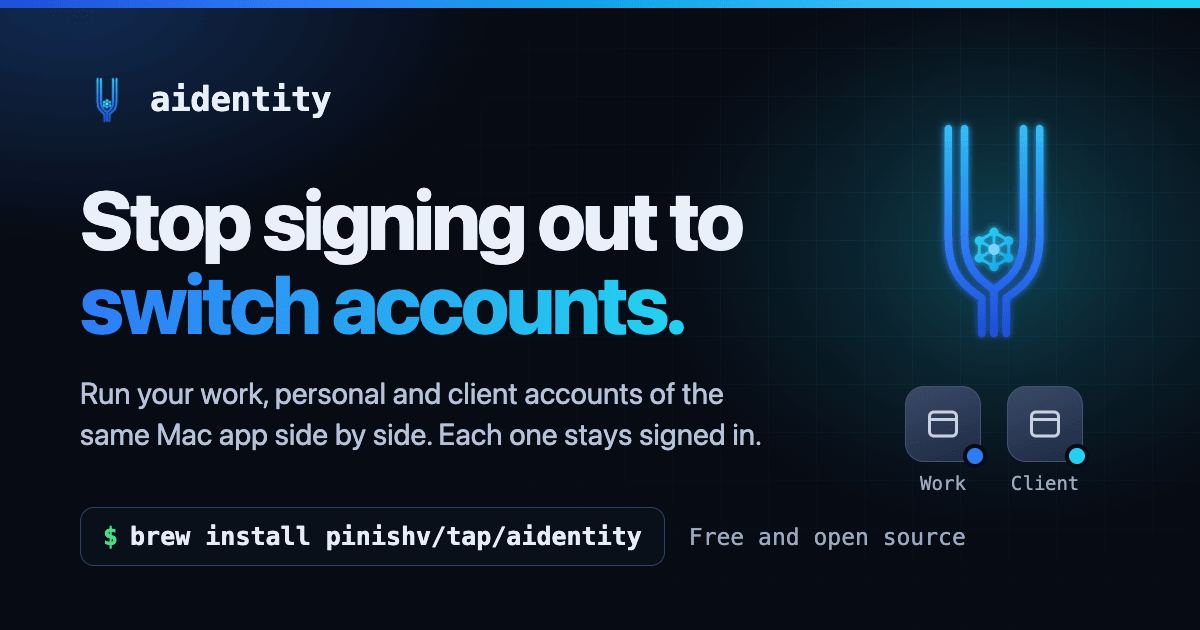
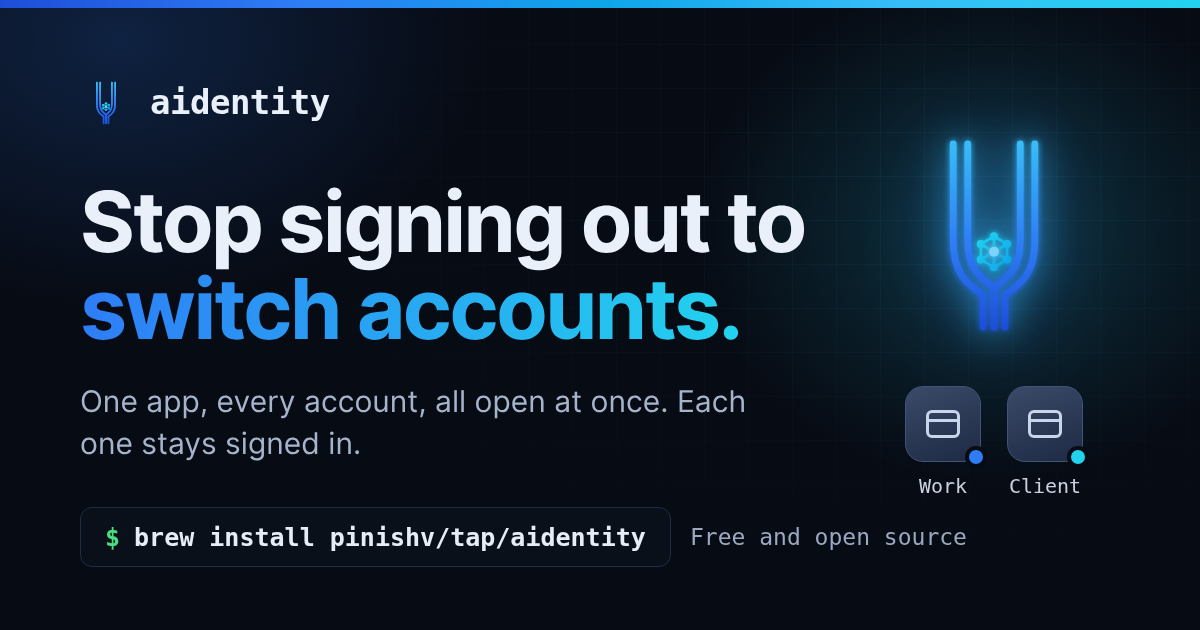
film: the social card is built with the film, with the new lead
The card shown when a link to the site is shared still had the old lead.
It now comes from assets/film/og.html, drawn by the film image's own
Chromium with the same fonts and logo, so build.sh makes it with the film
and copies it to site/assets/og.png. The film README now says that only
the sound comes out the same, sample for sample: Chromium's drawing is
not bit-exact, so the video bytes change a little from run to run.

diff --git a/assets/film/og.html b/assets/film/og.html
@@ -1,0 +1,56 @@
+<!doctype html>
+<html lang="en">
+<head>
+<meta charset="utf-8">
+<title>aidentity social card</title>
+<!-- The card that shows when a link to the site is shared: 1200x630.
+     render.sh draws it with the image's Chromium, next to the film. -->
+<style>
+  @font-face { font-family: "AidSans"; src: url("fonts/Inter-Regular.otf"); font-weight: 400; }
+  @font-face { font-family: "AidSans"; src: url("fonts/Inter-Medium.otf"); font-weight: 500; }
+  @font-face { font-family: "AidSans"; src: url("fonts/Inter-Bold.otf"); font-weight: 700; }
+  * { box-sizing: border-box; margin: 0; padding: 0; }
+  html, body { width: 1200px; height: 630px; overflow: hidden; background: #070B14; }
+  body { position: relative; font-family: "AidSans", sans-serif; color: #EAF0FA; }
+  .strip { position: absolute; left: 0; right: 0; top: 0; height: 8px; background: linear-gradient(90deg, #1D4ED8, #2E7DF6, #0EA5E9, #38BDF8, #22D3EE); }
+  .glow { position: absolute; inset: 0; background:
+      radial-gradient(ellipse 420px 360px at 990px 230px, rgba(34,211,238,.20), transparent 70%),
+      radial-gradient(ellipse 520px 380px at 120px 40px, rgba(46,125,246,.20), transparent 70%); }
+  .grid { position: absolute; inset: 0; background-image:
+      linear-gradient(rgba(56,189,248,.06) 1px, transparent 1px), linear-gradient(90deg, rgba(56,189,248,.06) 1px, transparent 1px);
+      background-size: 44px 44px; -webkit-mask-image: radial-gradient(ellipse 70% 80% at 75% 30%, #000, transparent 75%); }
+  .brand { position: absolute; left: 80px; top: 76px; display: flex; align-items: center; gap: 18px; font: 700 34px "DejaVu Sans Mono", monospace; letter-spacing: -.5px; }
+  .brand img { width: 52px; height: 52px; }
+  h1 { position: absolute; left: 80px; top: 178px; width: 760px; font-size: 84px; font-weight: 700; line-height: 1.04; letter-spacing: -2.6px; }
+  .grad { background: linear-gradient(90deg, #2E7DF6, #22D3EE); -webkit-background-clip: text; background-clip: text; color: transparent; }
+  .lead { position: absolute; left: 80px; top: 380px; width: 700px; font-size: 30px; font-weight: 400; line-height: 1.4; color: #A5B4CB; }
+  .cmd { position: absolute; left: 80px; top: 507px; display: flex; align-items: center; gap: 14px; height: 60px; padding: 0 24px;
+    border: 1px solid #1F2C45; border-radius: 12px; background: #0A1019; font: 700 25px "DejaVu Sans Mono", monospace; color: #E6EDF7; }
+  .cmd b { color: #4ADE80; }
+  .free { position: absolute; left: 690px; top: 524px; font: 400 23px "DejaVu Sans Mono", monospace; color: #9AA9C0; }
+  .mark { position: absolute; left: 878px; top: 96px; width: 232px; height: 270px; object-fit: contain;
+    filter: drop-shadow(0 0 18px rgba(56,189,248,.65)) drop-shadow(0 0 40px rgba(46,125,246,.45)); }
+  .tiles { position: absolute; left: 905px; top: 386px; display: flex; gap: 26px; }
+  .t { display: grid; justify-items: center; gap: 12px; font: 500 20px "DejaVu Sans Mono", monospace; color: #C9D1DE; }
+  .tile { position: relative; width: 76px; height: 76px; border-radius: 18px; display: grid; place-items: center;
+    background: linear-gradient(160deg, #3A4A68, #1E2A44); border: 1px solid #41537A; }
+  .tile i { width: 34px; height: 28px; border: 3px solid #C9D6EA; border-radius: 6px; position: relative; }
+  .tile i::after { content: ""; position: absolute; left: 0; right: 0; top: 6px; border-top: 3px solid #C9D6EA; }
+  .badge { position: absolute; right: -7px; bottom: -7px; width: 22px; height: 22px; border-radius: 50%; border: 4px solid #070B14; background: #2E7DF6; }
+  .badge.b2 { background: #22D3EE; }
+</style>
+</head>
+<body>
+<div class="glow"></div><div class="grid"></div><div class="strip"></div>
+<div class="brand"><img src="logo.svg" alt="">aidentity</div>
+<h1>Stop signing out to <span class="grad">switch accounts.</span></h1>
+<p class="lead">One app, every account, all open at once. Each one stays signed in.</p>
+<div class="cmd"><b>$</b>brew install pinishv/tap/aidentity</div>
+<div class="free">Free and open source</div>
+<img class="mark" src="logo.svg" alt="">
+<div class="tiles">
+  <div class="t"><div class="tile"><i></i><span class="badge"></span></div>Work</div>
+  <div class="t"><div class="tile"><i></i><span class="badge b2"></span></div>Client</div>
+</div>
+</body>
+</html>

diff --git a/assets/film/README.md b/assets/film/README.md
@@ -1,9 +1,10 @@
 # The product film
 
-The source of the 19.5-second film on the site, with its sound and its two
-posters. It is a build tool for the repository, not part of the installed
-tool: `aidentity`, `install.sh` and the Homebrew formula never fetch or run
-anything from this folder.
+The source of the 19.5-second film on the site, with its sound, its two
+posters and the card shown when a link to the site is shared. It is a build
+tool for the repository, not part of the installed tool: `aidentity`,
+`install.sh` and the Homebrew formula never fetch or run anything from this
+folder.
 
 ## Rebuild it
 
@@ -21,9 +22,11 @@ network off. The script copies the results into place:
 |---|---|
 | `site/assets/film.mp4`, `film.webm` | the site player |
 | `site/assets/film-poster.jpg` | the site, before play |
+| `site/assets/og.png` | the card shown when a link to the site is shared |
 | `assets/film-poster.jpg` | the README, with a play button drawn on it |
 
-Watch the film with sound and look at both posters before you commit them.
+Watch the film with sound and look at both posters and the card before you
+commit them.
 
 - `--rebuild` builds the image again first.
 - `FILM_KEEP=some/folder bash assets/film/build.sh` also keeps every output
@@ -41,6 +44,7 @@ Watch the film with sound and look at both posters before you commit them.
 | File | What it does |
 |---|---|
 | `index.html` | The film: a 1280x720 page, animated with a GSAP timeline |
+| `og.html` | The card for shared links: a 1200x630 page |
 | `narration.py` | The six spoken lines, made with Kokoro, offline |
 | `music.py` | The music, written in code from fixed seeds, and the mix with the narration |
 | `master.py` | Gain and a true-peak limiter |
@@ -66,6 +70,7 @@ The steps in `render.sh`:
    settings, versions or dates.
 7. The site poster: the frame at 8.9 s.
 8. The README poster: the frame at 8.9 s, with a play button on it.
+9. The card for shared links: `og.html`, drawn by the same Chromium.
 
 ## What is pinned, and why
 
@@ -86,8 +91,9 @@ change under it.
 Not pinned: the Debian packages (ffmpeg 5.1.9, Chromium 156, Inter 4.0~beta7,
 librsvg 2.54.7 when this was written). They come from Debian 12 when the image
 is built, so a later build can take newer security updates, and the video bytes
-can then differ. To get the same bytes again, keep the built image and run it
-on a machine with the same number of CPUs: the H.264 output depends on it.
+can then differ. Even with the same image, the video bytes change a little from
+run to run: Chromium's drawing is not bit-exact, though the difference cannot
+be seen. The sound comes out the same, sample for sample.
 
 ## No network while rendering
 
